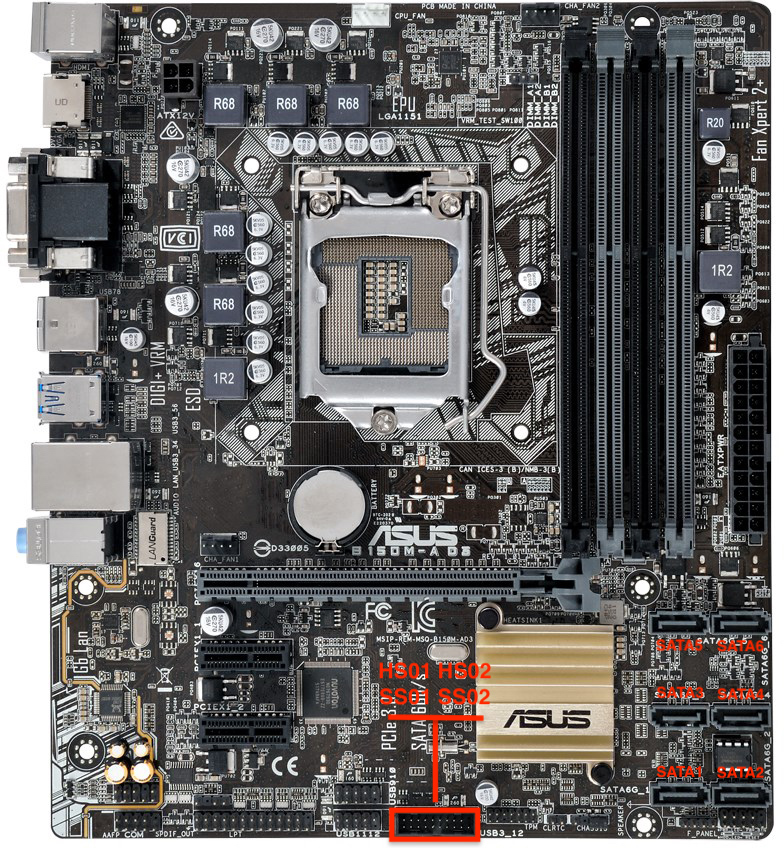
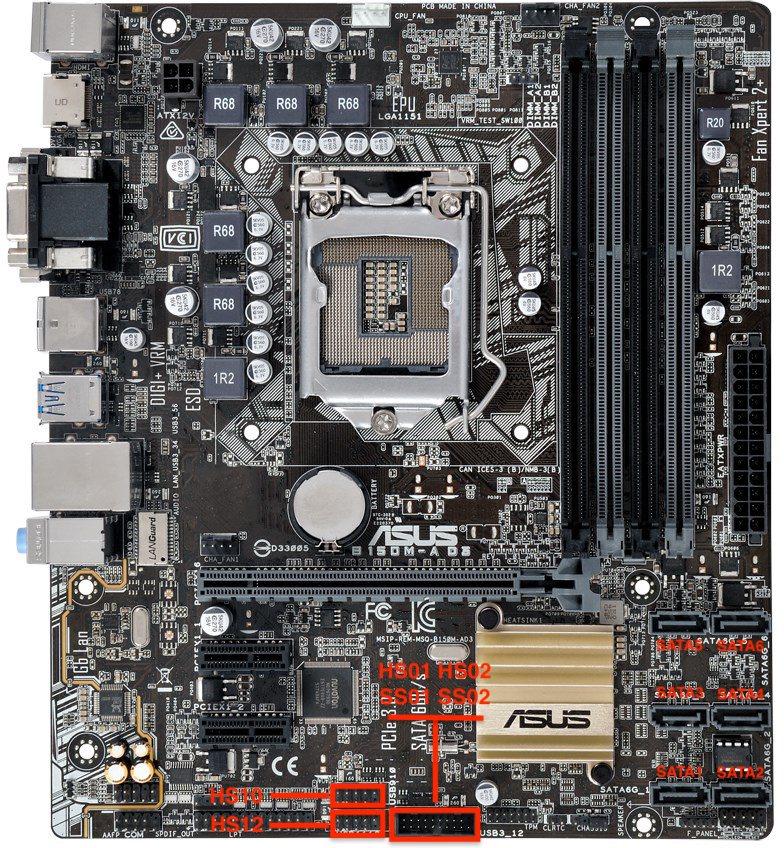
更新主板 USB2 串口接口定义

Changed region(s): [[0.2449, 0.9198, 0.4898, 1.0]]

diff --git a/README.md b/README.md
@@ -38,8 +38,8 @@
     - [x] 主板后置
     - [x] HDMI 声音输出
 - [ ] 有线网卡 (Realtek RTL8111H)
-- [ ] 无线 WiFi
-- [ ] 蓝牙
+- [x] 无线 WiFi
+- [x] 蓝牙
     - [ ] Handoff
     - [ ] Airdrop
 - [ ] 睡眠唤醒 - me 关闭问题核显**可能解决不了**唤醒问题
@@ -87,12 +87,10 @@ ql3x 其原身是 Intel 笔记本七代 [i7 7820HK](https://ark.intel.com/conten
 
 ### USB 接口
 
-接口如下，目前主板上 USB 2.0 的还没设备进行测试等后续 PCIE 的网卡到了再说，先把已知的标上去
+接口如下，USB 端口注入 HS01-06、HS10、HS12，SS01-06 = 14 个端口，其中 HS01-06 改为 USB2，HS10 和 HS12 改为 Internal，关闭 HS07-09，HS11 和 SS07-12。
 
 ![B150M-A_D3-1.jpg](screenshots/B150M-A_D3-1.jpg)
 ![B150M-A_D3-4.jpg](screenshots/B150M-A_D3-4.jpg)
-
-USB 端口注入 HS01-06、09-11，SS01-06 = 15 个端口，关闭 HS07-08，12 和 SS07-12
 
 ### EFI
 
